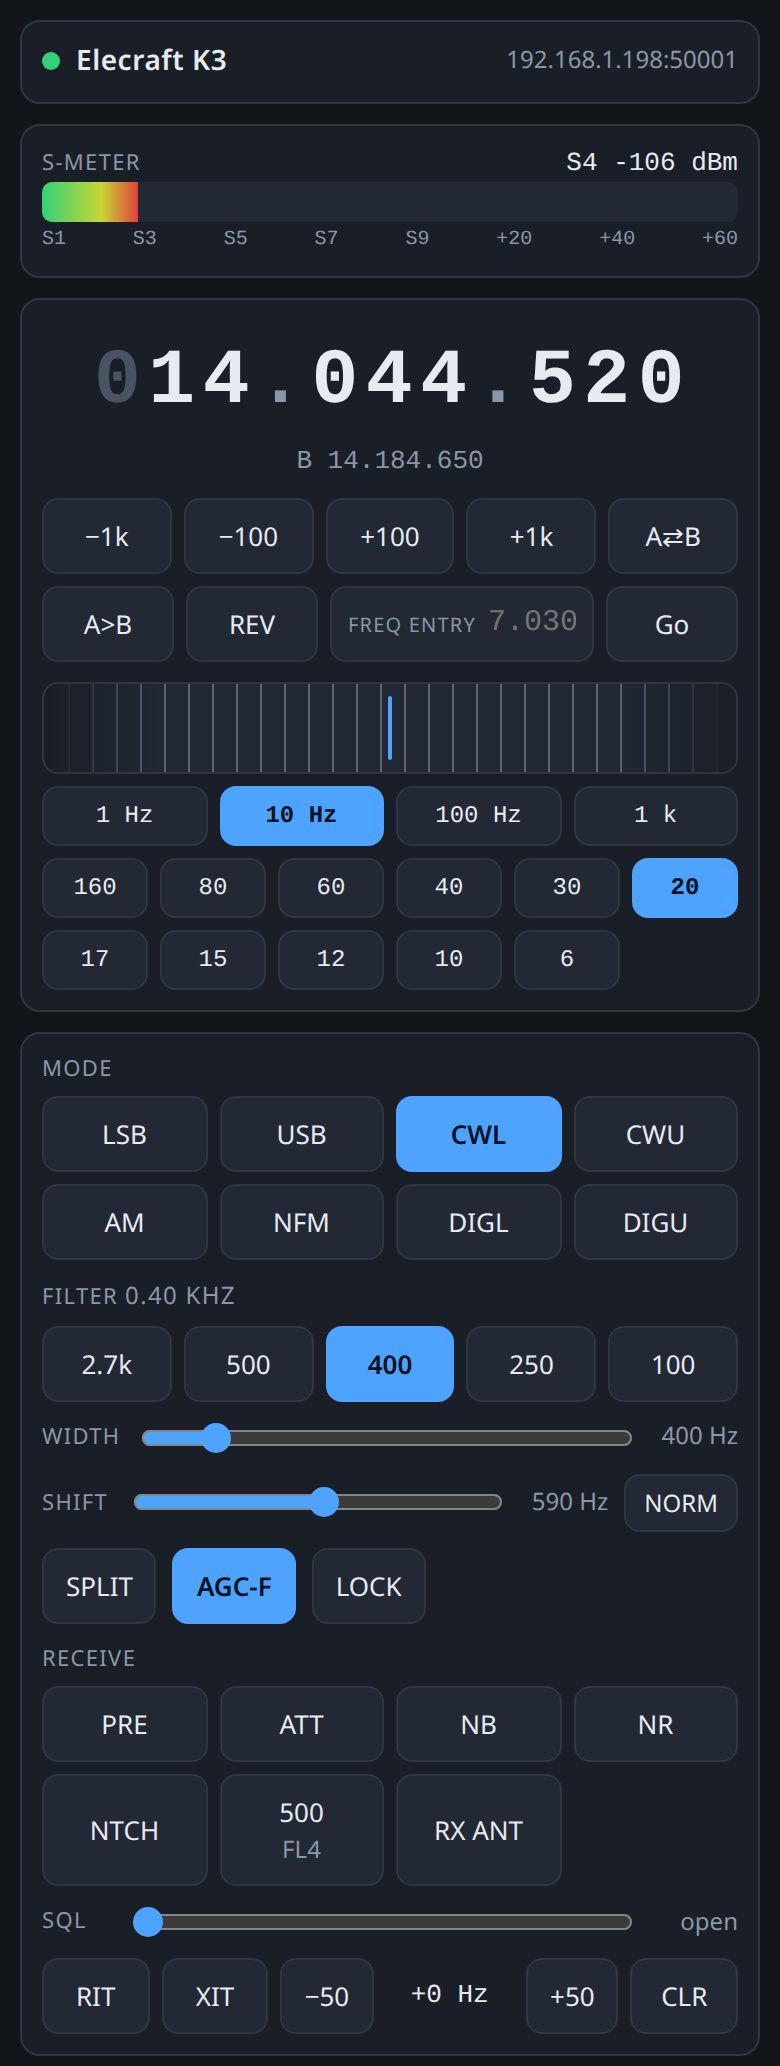
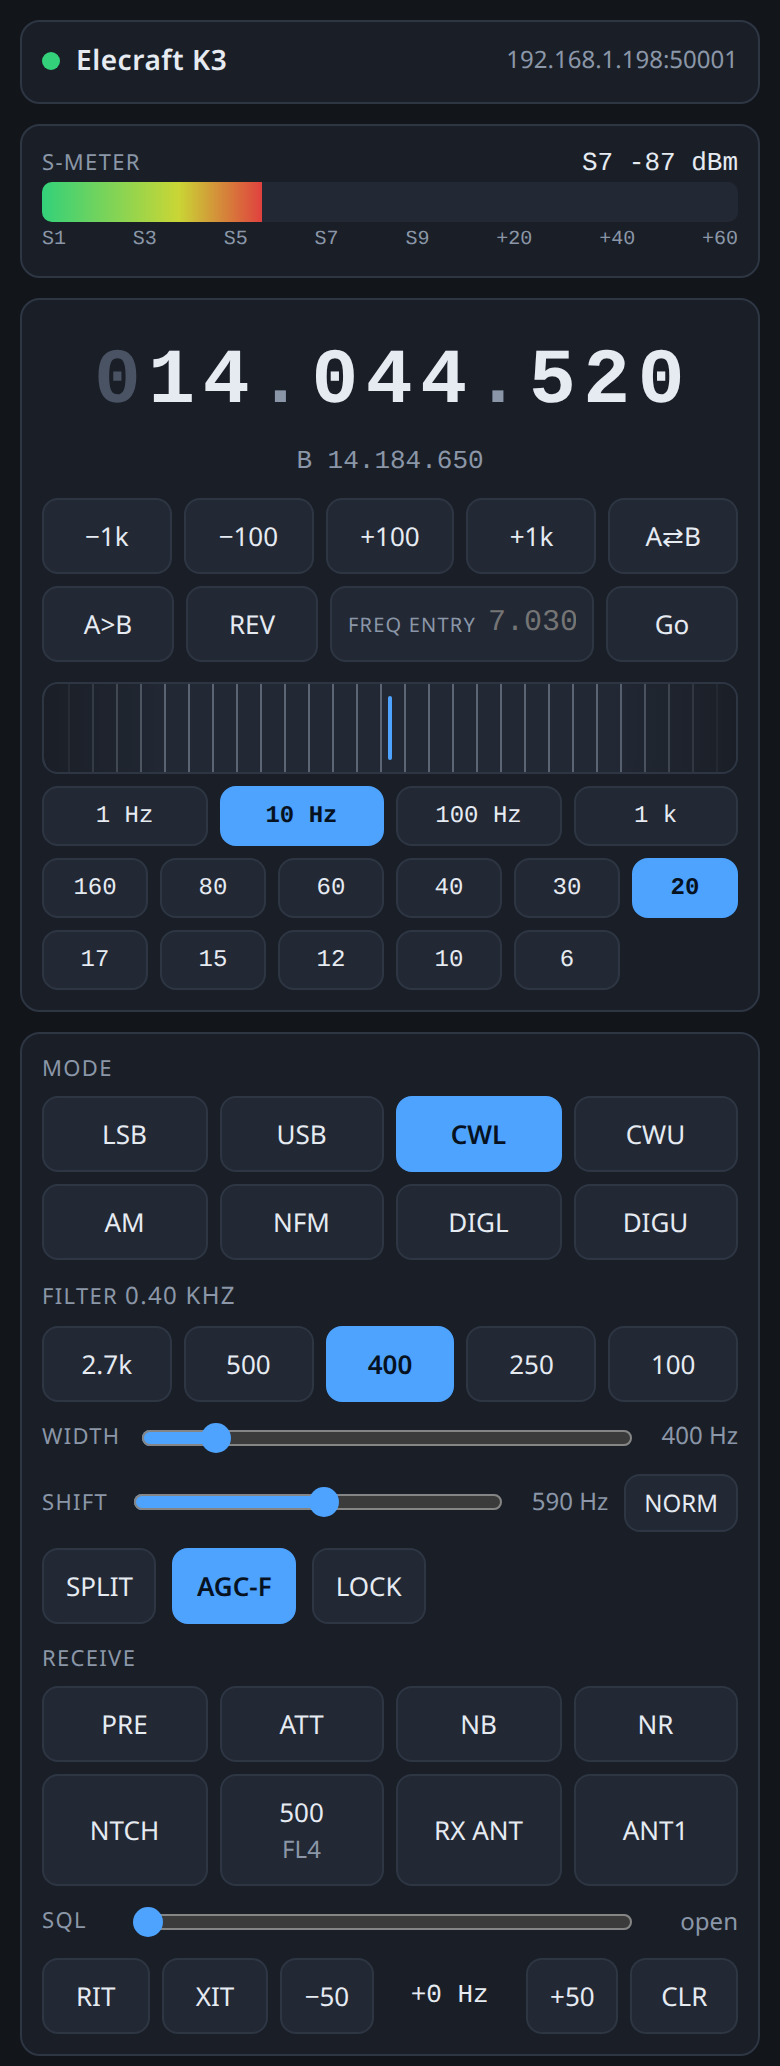
Add ANT1/ANT2 to the receive row
AN1/AN2, named on the button rather than lit. An antenna switch reports
AN more than once, so the second report went out as news and flashed the
old antenna during the next switch; AN and AR from AI2 now broadcast only
on a change, which serial order makes safe. Screenshots retaken.

diff --git a/bridge/ui.html b/bridge/ui.html
@@ -213,6 +213,7 @@ input[type=range]{width:100%; accent-color:var(--accent)}
     <button id="ntch" title="Presses NTCH on the radio, which cycles it">NTCH</button>
     <button id="xfil" title="Presses XFIL on the radio: next crystal filter">XFIL</button>
     <button id="rxant" title="Receive on the RX ANT input">RX ANT</button>
+    <button id="ant" title="Switch between ANT1 and ANT2">ANT</button>
   </div>
   <div id="nbhint"></div>
   <div class="row" style="margin-top:8px">
@@ -333,7 +334,7 @@ const HOST = location.host || "192.168.1.198:50001";
 const S = { mode:"", vfoA:0, vfoB:0, split:false, agc:"",
             pre:false, att:false, nb:false, nbLevels:[0,0], nr:false, notch:"off",
             rit:false, xit:false, ritOffset:0,
-            sqlOn:false, sqlLevel:0, lock:false, xfil:0, rxAnt:false, tx:false, audio:false,
+            sqlOn:false, sqlLevel:0, lock:false, xfil:0, rxAnt:false, ant:0, tx:false, audio:false,
             ready:false, flo:0, fhi:0, txLevel:0, txSeen:0,
             decoded:false, meterSeen:0, msgSeen:0, askedAudio:0 };
 const $ = s => document.querySelector(s);
@@ -430,6 +431,7 @@ function onText(msg){
     case "attenuator":  S.att = args[1] === "true"; paintRx(); break;
     case "rx_nb_enable": S.nb = args[1] === "true"; paintRx(); break;
     case "rx_nr_enable": S.nr = args[1] === "true"; paintRx(); break;
+    case "ant":         S.ant = +args[1] || 0; paintRx(); break;
     case "rx_ant":      S.rxAnt = args[1] === "true"; paintRx(); break;
     case "if_shift":    S.ifc = +args[1] || 0; paintShift(); break;
     case "xfil":        S.xfil = +args[1] || 0; S.xfilHz = +args[2] || 0; paintRx(); break;
@@ -831,6 +833,7 @@ $("#nr").onclick   = () => send("nr_tap:0");
 $("#ntch").onclick = () => send("notch_tap:0");
 $("#xfil").onclick = () => send("xfil_tap:0");
 $("#rxant").onclick = () => send(`rx_ant:0,${!S.rxAnt}`);
+$("#ant").onclick = () => { if (S.ant && !S.tx) send(`ant:0,${S.ant === 1 ? 2 : 1}`); };
 // Squelch in the radio's own steps, 0-29, where 0 is open. The wire is
 // TCI's 0-100, so the slider converts both ways; the steps are 3.4 apart,
 // so the round trip lands back on the same one.
@@ -863,6 +866,8 @@ function paintRx(){
   $("#nb").classList.toggle("on", S.nb);
   $("#nr").classList.toggle("on", S.nr);
   $("#rxant").classList.toggle("on", S.rxAnt);
+  // Names the antenna in use rather than lighting: there is no "off".
+  $("#ant").textContent = S.ant ? `ANT${S.ant}` : "ANT";
   $("#ntch").classList.toggle("on", S.notch !== "off");
   $("#ntch").textContent = S.notch === "manual" ? "NTCH-M" : "NTCH";
   // Not a switch with an off, so never lit: it names the crystal in use.

diff --git a/bridge/tci.py b/bridge/tci.py
@@ -176,6 +176,7 @@ class RadioState:
         self.lock = False           # VFO A lock
         self.xfil = 0               # crystal filter FL1-FL5; 0 = not read yet
         self.rx_ant = False         # AR: the separate receive antenna
+        self.ant = 0                # AN: 1 or 2; 0 = not read yet
         self.notch = "off"          # off / auto / manual, likewise
 
 
@@ -245,6 +246,7 @@ class Bridge:
         self.refresh_xfil()
         self.refresh_sql_lock()
         self.refresh_rx_ant()
+        self.refresh_ant()
         log.info("primed: A=%d B=%d mode=%s split=%s",
                  self.state.vfo_a, self.state.vfo_b,
                  self.state.mode, self.state.split)
@@ -395,6 +397,7 @@ class Bridge:
             self.xfil_notification(),
             *self.sql_lock_notifications(),
             f"rx_ant:0,{bool_str(s.rx_ant)}",
+            f"ant:0,{s.ant}",
             # The bridge's own message, like rx_text; other TCI clients
             # ignore what they do not know. name/low/high per band.
             "band_plan:" + ",".join(f"{n}/{lo}/{hi}" for n, (_, lo, hi, _)
@@ -1589,6 +1592,29 @@ class Bridge:
                         *self.rx_frontend_notifications()]
         return [f"rx_ant:0,{bool_str(self.state.rx_ant)}"], []
 
+    # -- ANT --------------------------------------------------------------
+    # AN1/AN2, the transmit/receive antenna (the ATU's two outputs). The
+    # radio reports AN on a band change, so on_cat_event keeps it current
+    # as the per-band selection moves. Not switched under key.
+
+    def refresh_ant(self) -> None:
+        r = self.cat.ask("AN")
+        if r and r.startswith("AN") and len(r) >= 3 and r[2] in "12":
+            self.state.ant = int(r[2])
+
+    def _cmd_ant(self, args):
+        if len(args) >= 2 and args[1] in ("1", "2"):
+            if self.state.transmitting:
+                log.warning("antenna change refused while transmitting")
+                return [], []
+            cmd = f"AN{args[1]}"
+            if self.cat.set_verified(cmd, "AN", cmd + ";"):
+                self.state.ant = int(args[1])
+            else:
+                self.refresh_ant()
+            return [], [f"ant:0,{self.state.ant}"]
+        return [f"ant:0,{self.state.ant}"], []
+
     def _cmd_nr_tap(self, args):
         return self._tap(34)
 
@@ -1903,9 +1929,20 @@ class Bridge:
                 s.vfo_b = int(msg[2:13]); out.append(f"vfo:0,1,{s.vfo_b}")
             except ValueError:
                 pass
+        # AN and AR: broadcast only a CHANGE. An antenna switch was seen to
+        # report AN more than once; the echo guard swallows one, and the
+        # next went out as news, flashing the old antenna on the button
+        # during the following switch. Serial order means a stale report
+        # can only land before the next read-back, never after it, so this
+        # loses nothing real.
+        elif msg.startswith("AN") and len(msg) >= 3 and msg[2] in "12":
+            if int(msg[2]) != s.ant:
+                s.ant = int(msg[2])
+                out.append(f"ant:0,{s.ant}")
         elif msg.startswith("AR") and len(msg) >= 3 and msg[2] in "01":
-            s.rx_ant = msg[2] == "1"
-            out.append(f"rx_ant:0,{bool_str(s.rx_ant)}")
+            if (msg[2] == "1") != s.rx_ant:
+                s.rx_ant = msg[2] == "1"
+                out.append(f"rx_ant:0,{bool_str(s.rx_ant)}")
         elif msg[:2] in ("SQ", "LK") and self._parse_sql_lock(msg):
             # Not known to be reported by AI2; handled in case they are.
             out += self.sql_lock_notifications()

diff --git a/k3-tci-command-map.md b/k3-tci-command-map.md
@@ -480,6 +480,7 @@ slow and cite the caution above.
 | `attenuator:0,<bool>` (bridge's own) | `RA01;` / `RA00;` | `RA;` | — | One 10 dB pad on this K3 |
 | `if_shift:0,<Hz>` / `if_shift:0,norm` (bridge's own) | `IS <4 digits>;` / `IS 9999;` | `IS;` | Hz, the AF centre | SHIFT, in the radio's own terms. Broadcast with every `rx_filter_band`, because in CW the TCI edges are always `±half` and cannot show a shift. Measured clamps: CW 100-1050, NORM = PITCH (590 here); USB with 2.4k width 400-2600, NORM 1500, the edges moving with it (400 → -800..1600). AM/FM not measured; the web UI disables SHIFT there |
 | `ab_copy:0` (bridge's own) | `SWT13;` | `FA;`/`FB;` | — | A>B, the radio's own switch. Measured: `FB` takes `FA` |
+| `ant:0,<1\|2>` (bridge's own) | `AN1;` / `AN2;` | `AN;` | — | ~0.5 s to confirm. Refused while transmitting. Reported on band change. **An antenna switch reports `AN` more than once**: the echo guard swallows one and the next arrived as news, so `AN`/`AR` from AI2 are broadcast only when they change the state |
 | `rx_ant:0,<bool>` (bridge's own) | `AR1;` / `AR0;` | `AR;` | — | Re-reads `PA` and `RA`, which are stored per RX ANT state. ~0.8 s to confirm (1.4-1.9 s when it also re-read `NB`/`NL`) |
 | REV | **none usable** | — | — | `SWT12` changed nothing CAT can see — `FA`, `FB`, `IF` unmoved after a tap (measured), so its state is invisible, and the reference warns REV is a limited-access state that can answer `?;`. The web UI's REV is a press-and-hold swap of A and B through `vfo`, restored on release |
 | `xfil_tap:0` (bridge's own) | `SWT29;` | `XF;`, then `BW;`/`IS;` | `XFn` = FL1-FL5 | Broadcast as `xfil:0,<n>,<Hz>` plus `rx_filter_band`; the width is from `tci.XFIL_WIDTHS` (this station: FL3 2.7k, FL4 500, FL5 250), because CAT cannot report what is fitted. **Each crystal resets the DSP width to suit itself** (measured in CW: FL4 400 Hz → FL5 250 → FL3 2700 → FL4 500, not back to 400). In CW the tap cycles FL4 → FL5 → FL3 only. AI2 reports no `XF`; the reconcile sweep reads it. **The reverse holds too: a `BW` change picks the narrowest crystal at least as wide** (measured in CW: 2700 and 1000 → FL3; 500, 400, 300 → FL4; 250, 100 → FL5), so the web UI's width slider drives the crystal and XFIL is an override |

diff --git a/README.md b/README.md
@@ -11,7 +11,7 @@ BAND, AGC, PRE/ATT, NB, NR, NTCH, RIT/XIT.*
 
 <table>
 <tr>
-<td><img src="screenshots/web-ui-top.png" alt="Web UI, top: S-meter, frequency with A>B, hold-to-listen REV, typed entry, tuning strip and band buttons, mode, filter presets, width and SHIFT sliders, AGC, lock, preamp, attenuator, NB, NR, notch, crystal filter, RX antenna, squelch and RIT/XIT" width="320"></td>
+<td><img src="screenshots/web-ui-top.png" alt="Web UI, top: S-meter, frequency with A>B, hold-to-listen REV, typed entry, tuning strip and band buttons, mode, filter presets, width and SHIFT sliders, AGC, lock, preamp, attenuator, NB, NR, notch, crystal filter, RX antenna, ANT1/ANT2, squelch and RIT/XIT" width="320"></td>
 <td><img src="screenshots/web-ui-bottom.png" alt="Web UI, bottom: decoded text, CW keyer with macros, audio and power, TX audio meters, PTT and log" width="320"></td>
 </tr>
 </table>
